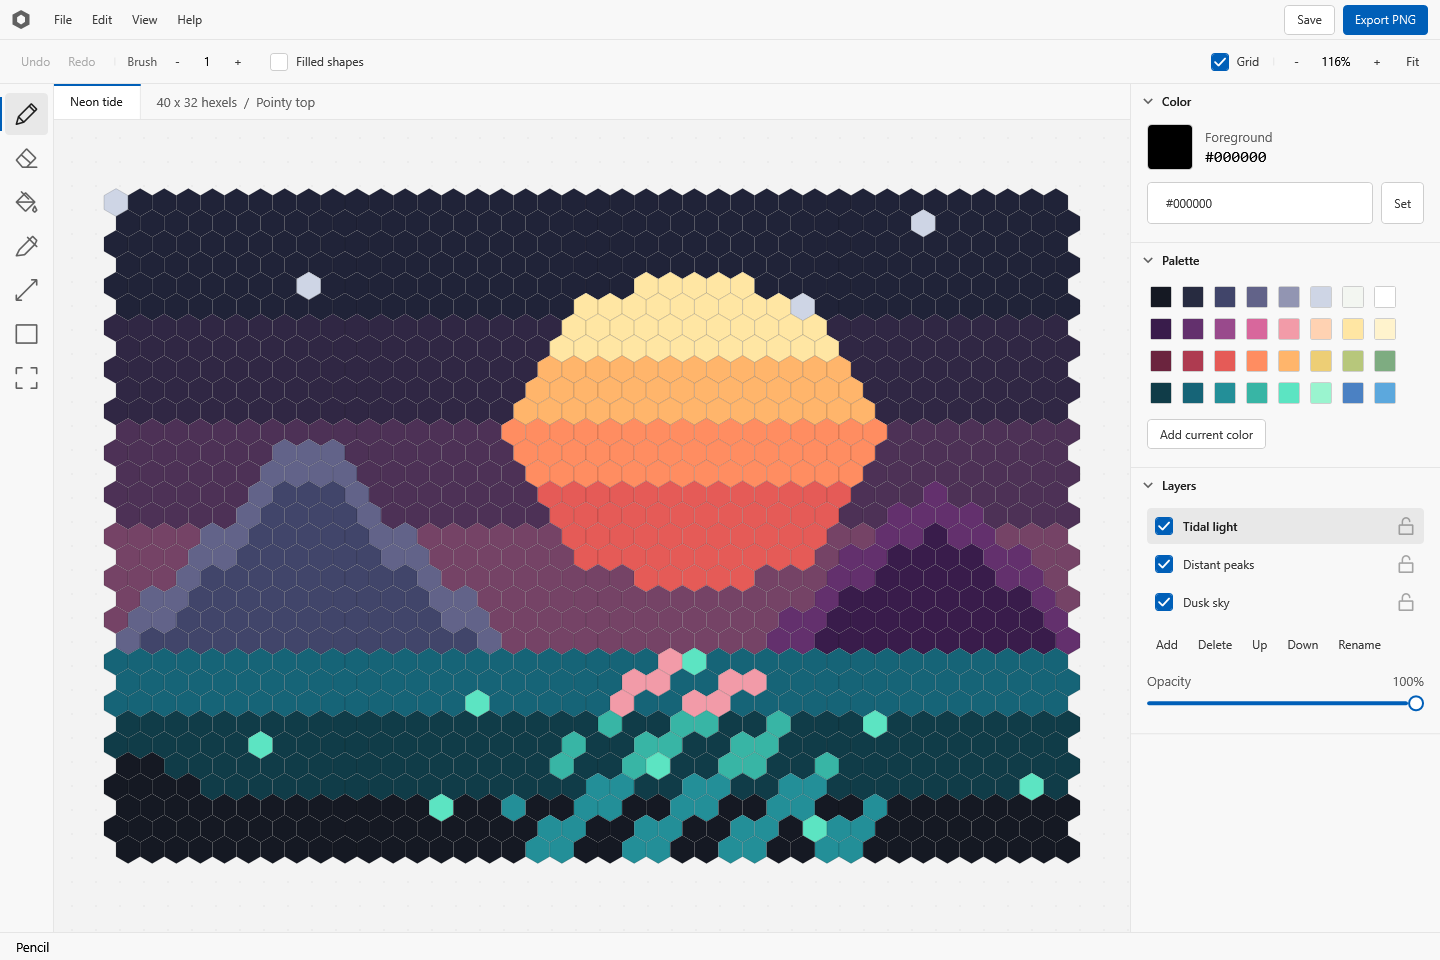
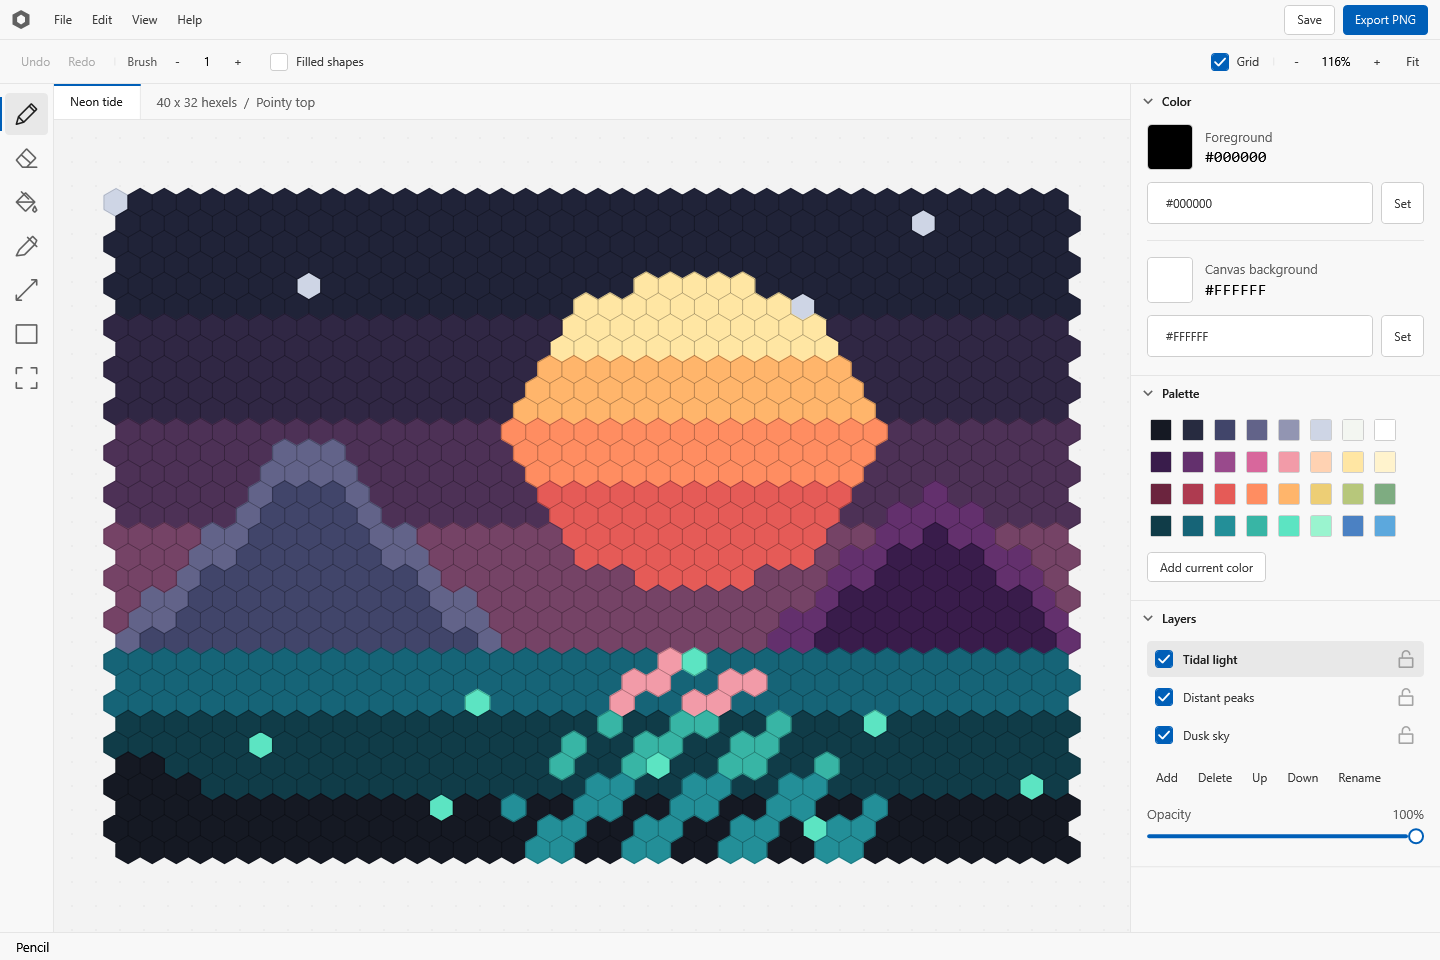
Document the canvas background color
The side bar screenshot comes from the current verification run.

diff --git a/README.md b/README.md
@@ -20,6 +20,7 @@ Build restores NuGet dependencies and creates the Release build. Run exits with 
 - Rectangular selections, cell copying and pasting, movement, and exact 60-degree rotations. Transforms clip at the canvas boundary and can be undone.
 - Layers with names, visibility, locking, opacity, and ordering, each holding its own cells.
 - Editable color values (`#RRGGBB` or `#AARRGGBB`) and a project palette.
+- A solid canvas background under every cell, white on a new canvas and changeable at any time from the Color side bar section or View > Canvas background color. It is saved with the project and can be undone like any other edit.
 - Stroke-level undo/redo, a saved-state indicator, and a prompt before replacing unsaved artwork.
 - Compressed `.hexel` projects and transparent PNG and SVG export.
 
@@ -47,7 +48,7 @@ The current release supports up to 32 layers, a 256 by 256 canvas, and 256 palet
 | Clear selected cells or layer       | Delete                                |
 | Deselect                            | Esc                                   |
 
-Export the artwork using the top-right Export PNG button. File also contains the SVG export. PNG uses a 16-pixel hexagon radius with transparency and no editor grid. SVG preserves hexagon geometry and alpha. Layer order, visibility, and opacity affect exports.
+Export the artwork using the top-right Export PNG button. File also contains the SVG export. PNG uses a 16-pixel hexagon radius with transparency and no editor grid or canvas background; cells that hold no color stay transparent. SVG preserves hexagon geometry and alpha. Layer order, visibility, and opacity affect exports.
 
 ## Build and verification
 
@@ -62,7 +63,7 @@ pwsh -File ./Scripts/Publish.ps1
 
 - Build compiles the complete solution in Release mode with warnings treated as errors.
 - Test builds and runs the xUnit suite in process, without needing VSTest's interprocess service. It covers hex geometry, editing, compositing, selections, undo/redo, layer operations, and project persistence.
-- Verify also starts a hidden WPF rendering host, renders the real editor, opens the menu bar, lays out the dialogs, saves and reloads the example, checks the PNG and SVG exports, including that no background shows between neighboring opaque cells, and checks session logging. Its logs and generated artifacts go to a timestamped folder under `LogOutput`. No physical display is used.
+- Verify also starts a hidden WPF rendering host, renders the real editor, opens the menu bar, lays out the dialogs, saves and reloads the example, checks the PNG and SVG exports, including that nothing shows between neighboring opaque cells, renders the canvas background and samples every cell to confirm it is one solid color, and checks session logging. Its logs and generated artifacts go to a timestamped folder under `LogOutput`. No physical display is used.
 - Publish creates a self-contained application at `Artifacts/Release/HexelEditor.exe`. Copy the entire Release folder to another Windows 11 x64 computer; no separate .NET installation is needed. Publishing uses separate intermediate outputs from development builds.
 
 Scripts store the CLI home, NuGet cache, test temporary files, and build outputs inside the ignored `Artifacts` directory or the projects' ignored `bin` and `obj` folders. The root build and run scripts share the executable path `Source/HexelEditor.Desktop/bin/Release/net10.0-windows10.0.26100.0/win-x64/HexelEditor.exe`. Both accept `-Configuration Debug` for a Debug build. `Run.ps1 -Project 'C:\Artwork\Scene.hexel'` opens a project at startup.
